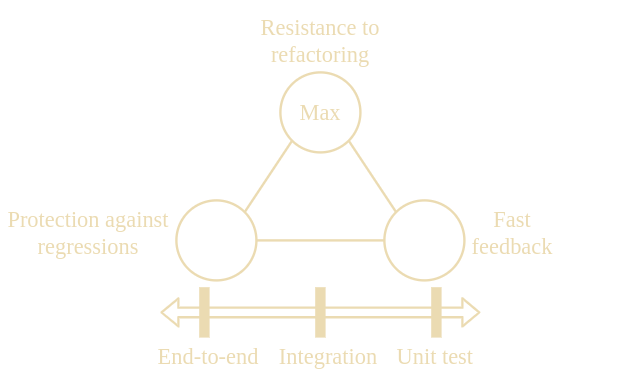
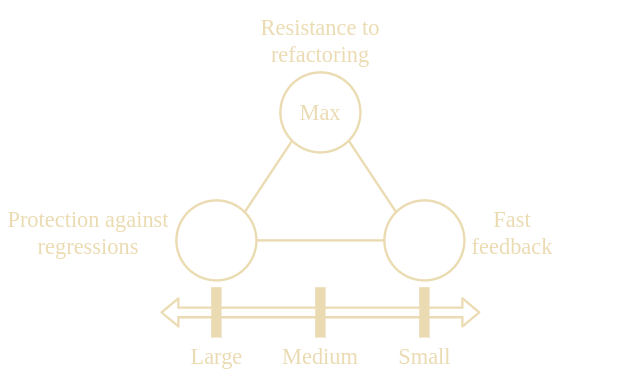
Tweak test naming

diff --git a/content/unit-testing/making_tests_work.md b/content/unit-testing/making_tests_work.md
@@ -33,13 +33,19 @@ $$Test\ accuracy = {Signal\ (True\ positives) \over Noise\ (False\ positives)}$$
 
 ## The Ideal Test
 
+{*Protection against regressions*, *Resistance to refactoring*, *Fast feedback*} - Choose two. 
+
 ![Ideal test](/images/ideal_test.png)
 
-{Protection against regressions, Resistance to refactoring, Fast feedback} - Choose two. Always 
-maximize resistance to refactoring. Once resistance against refactoring is maximized, test size 
-becomes a slider between protection against regressions and fast feedback.
+Always maximize *resistance to refactoring*. Once resistance against refactoring is maximized, test 
+size becomes a slider between *protection against regressions* and *fast feedback*.
 
 ![Test triangle](/images/test_triangle.png)
+
+A good amount of *protection against regressions* and *fast feedback* requires a diverse ratio of 
+test sizes. As a general rule of thumb, prefer a 7:2:1 ratio of small, medium, and large tests.
+
+![Test pyramid](/images/test_pyramid.png)
 
 ## Preventing False Positives
 
